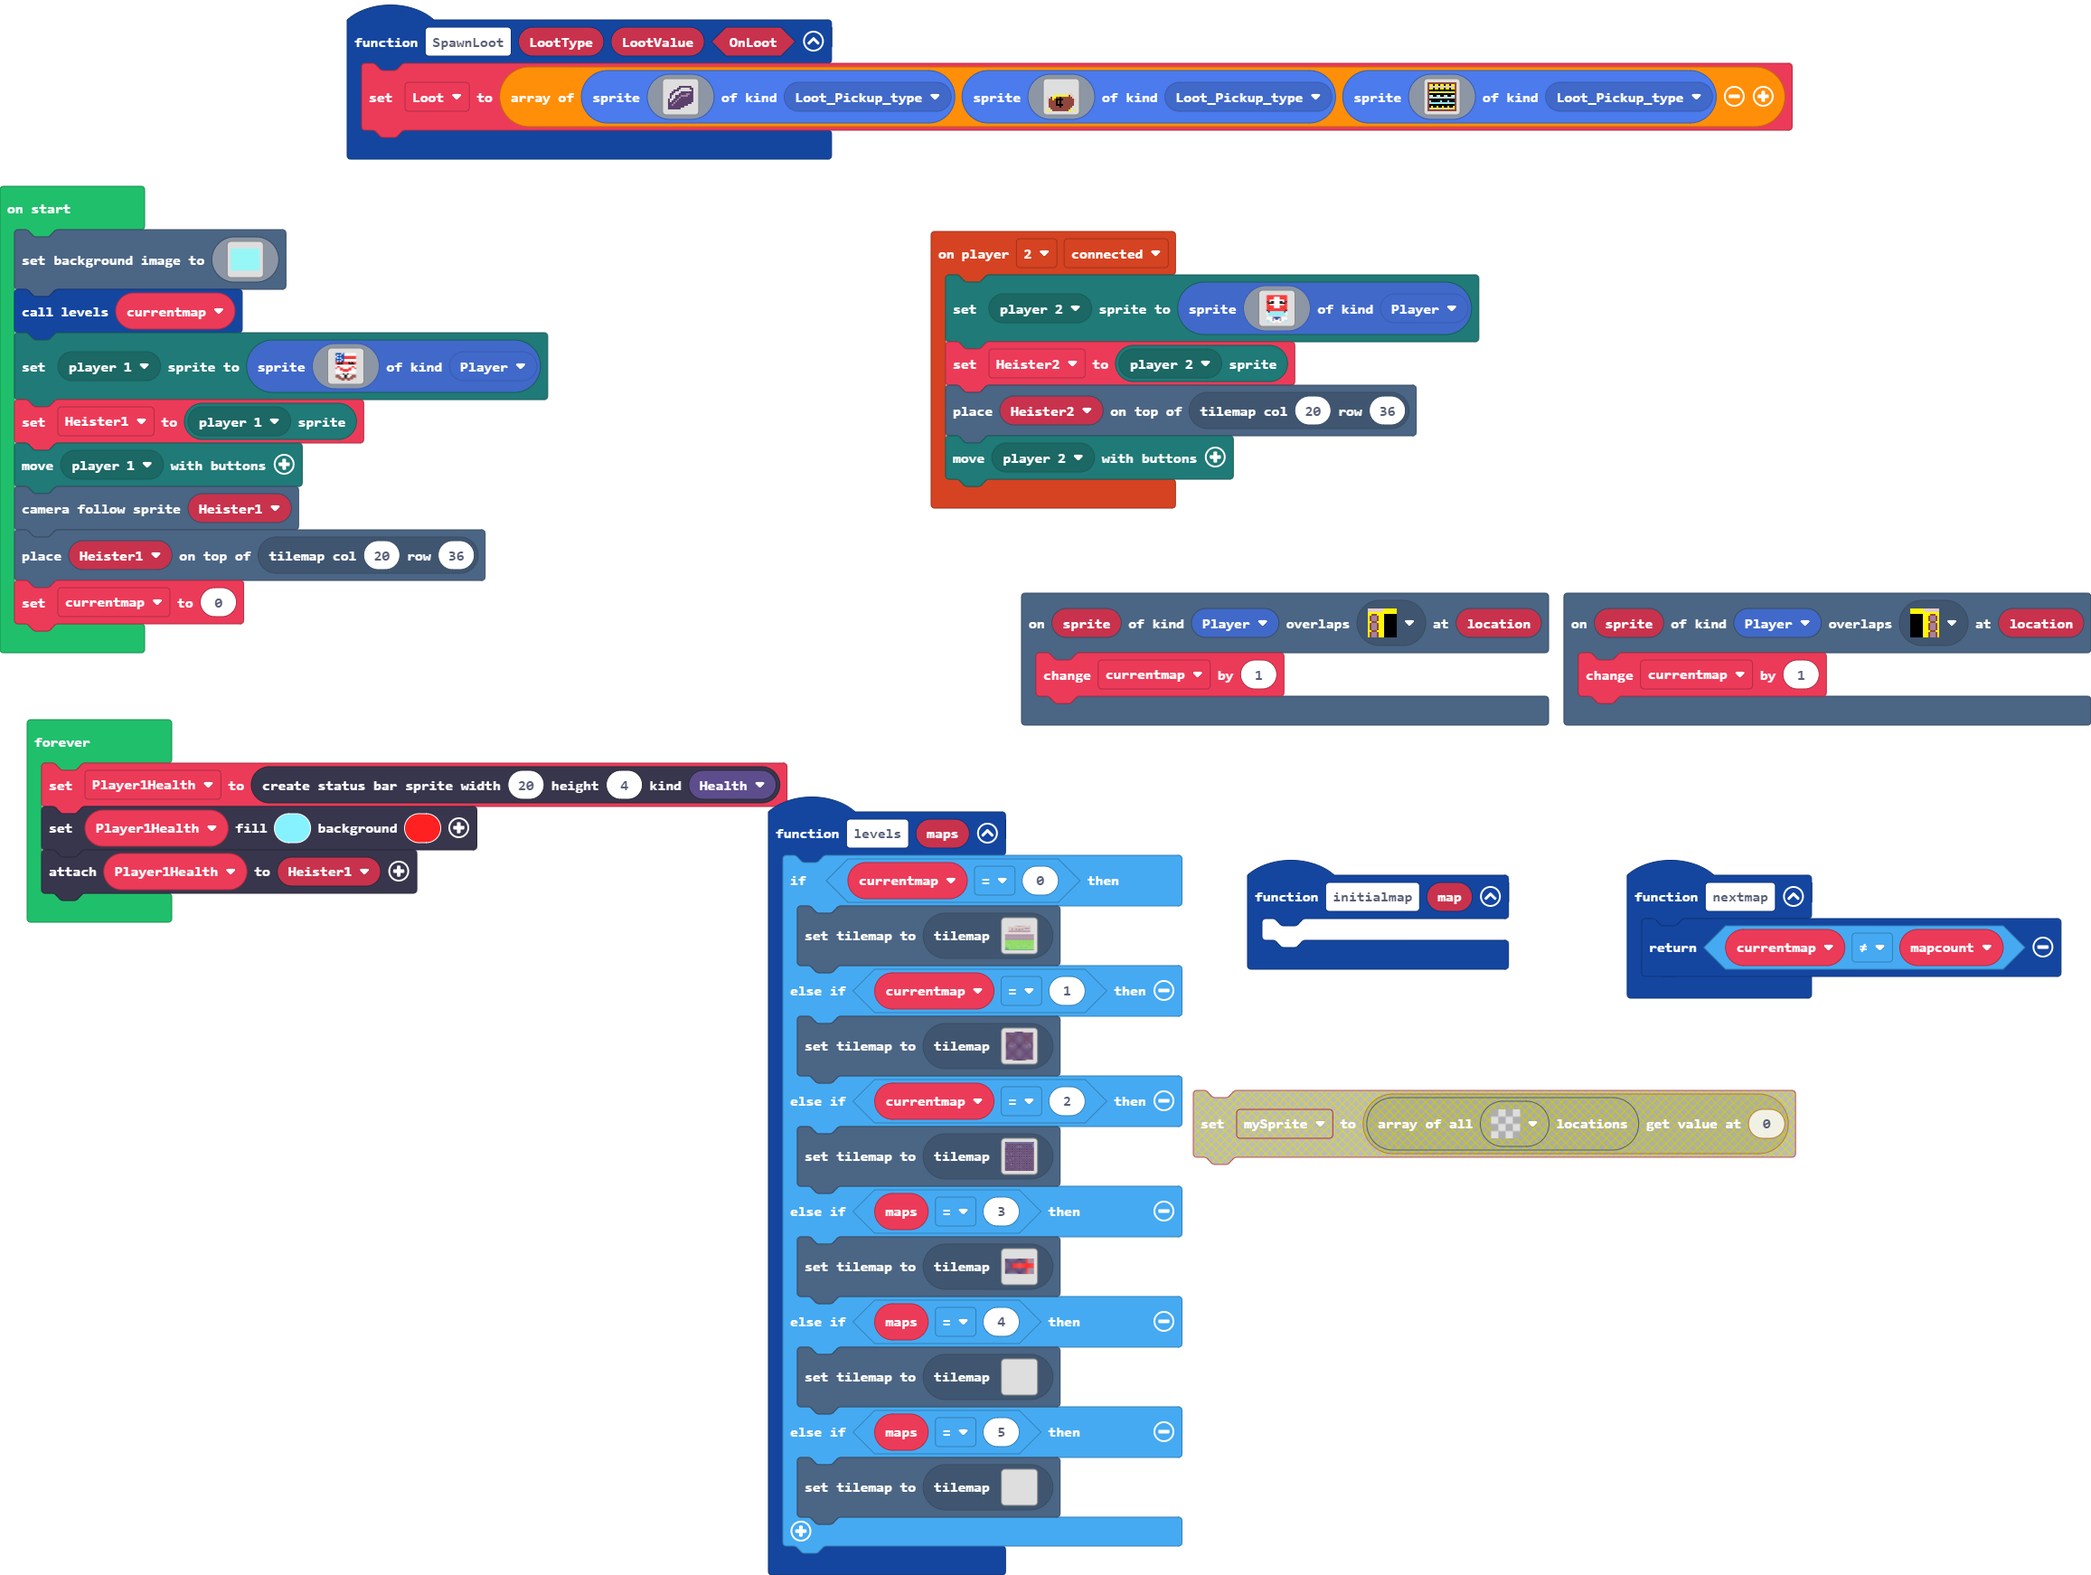
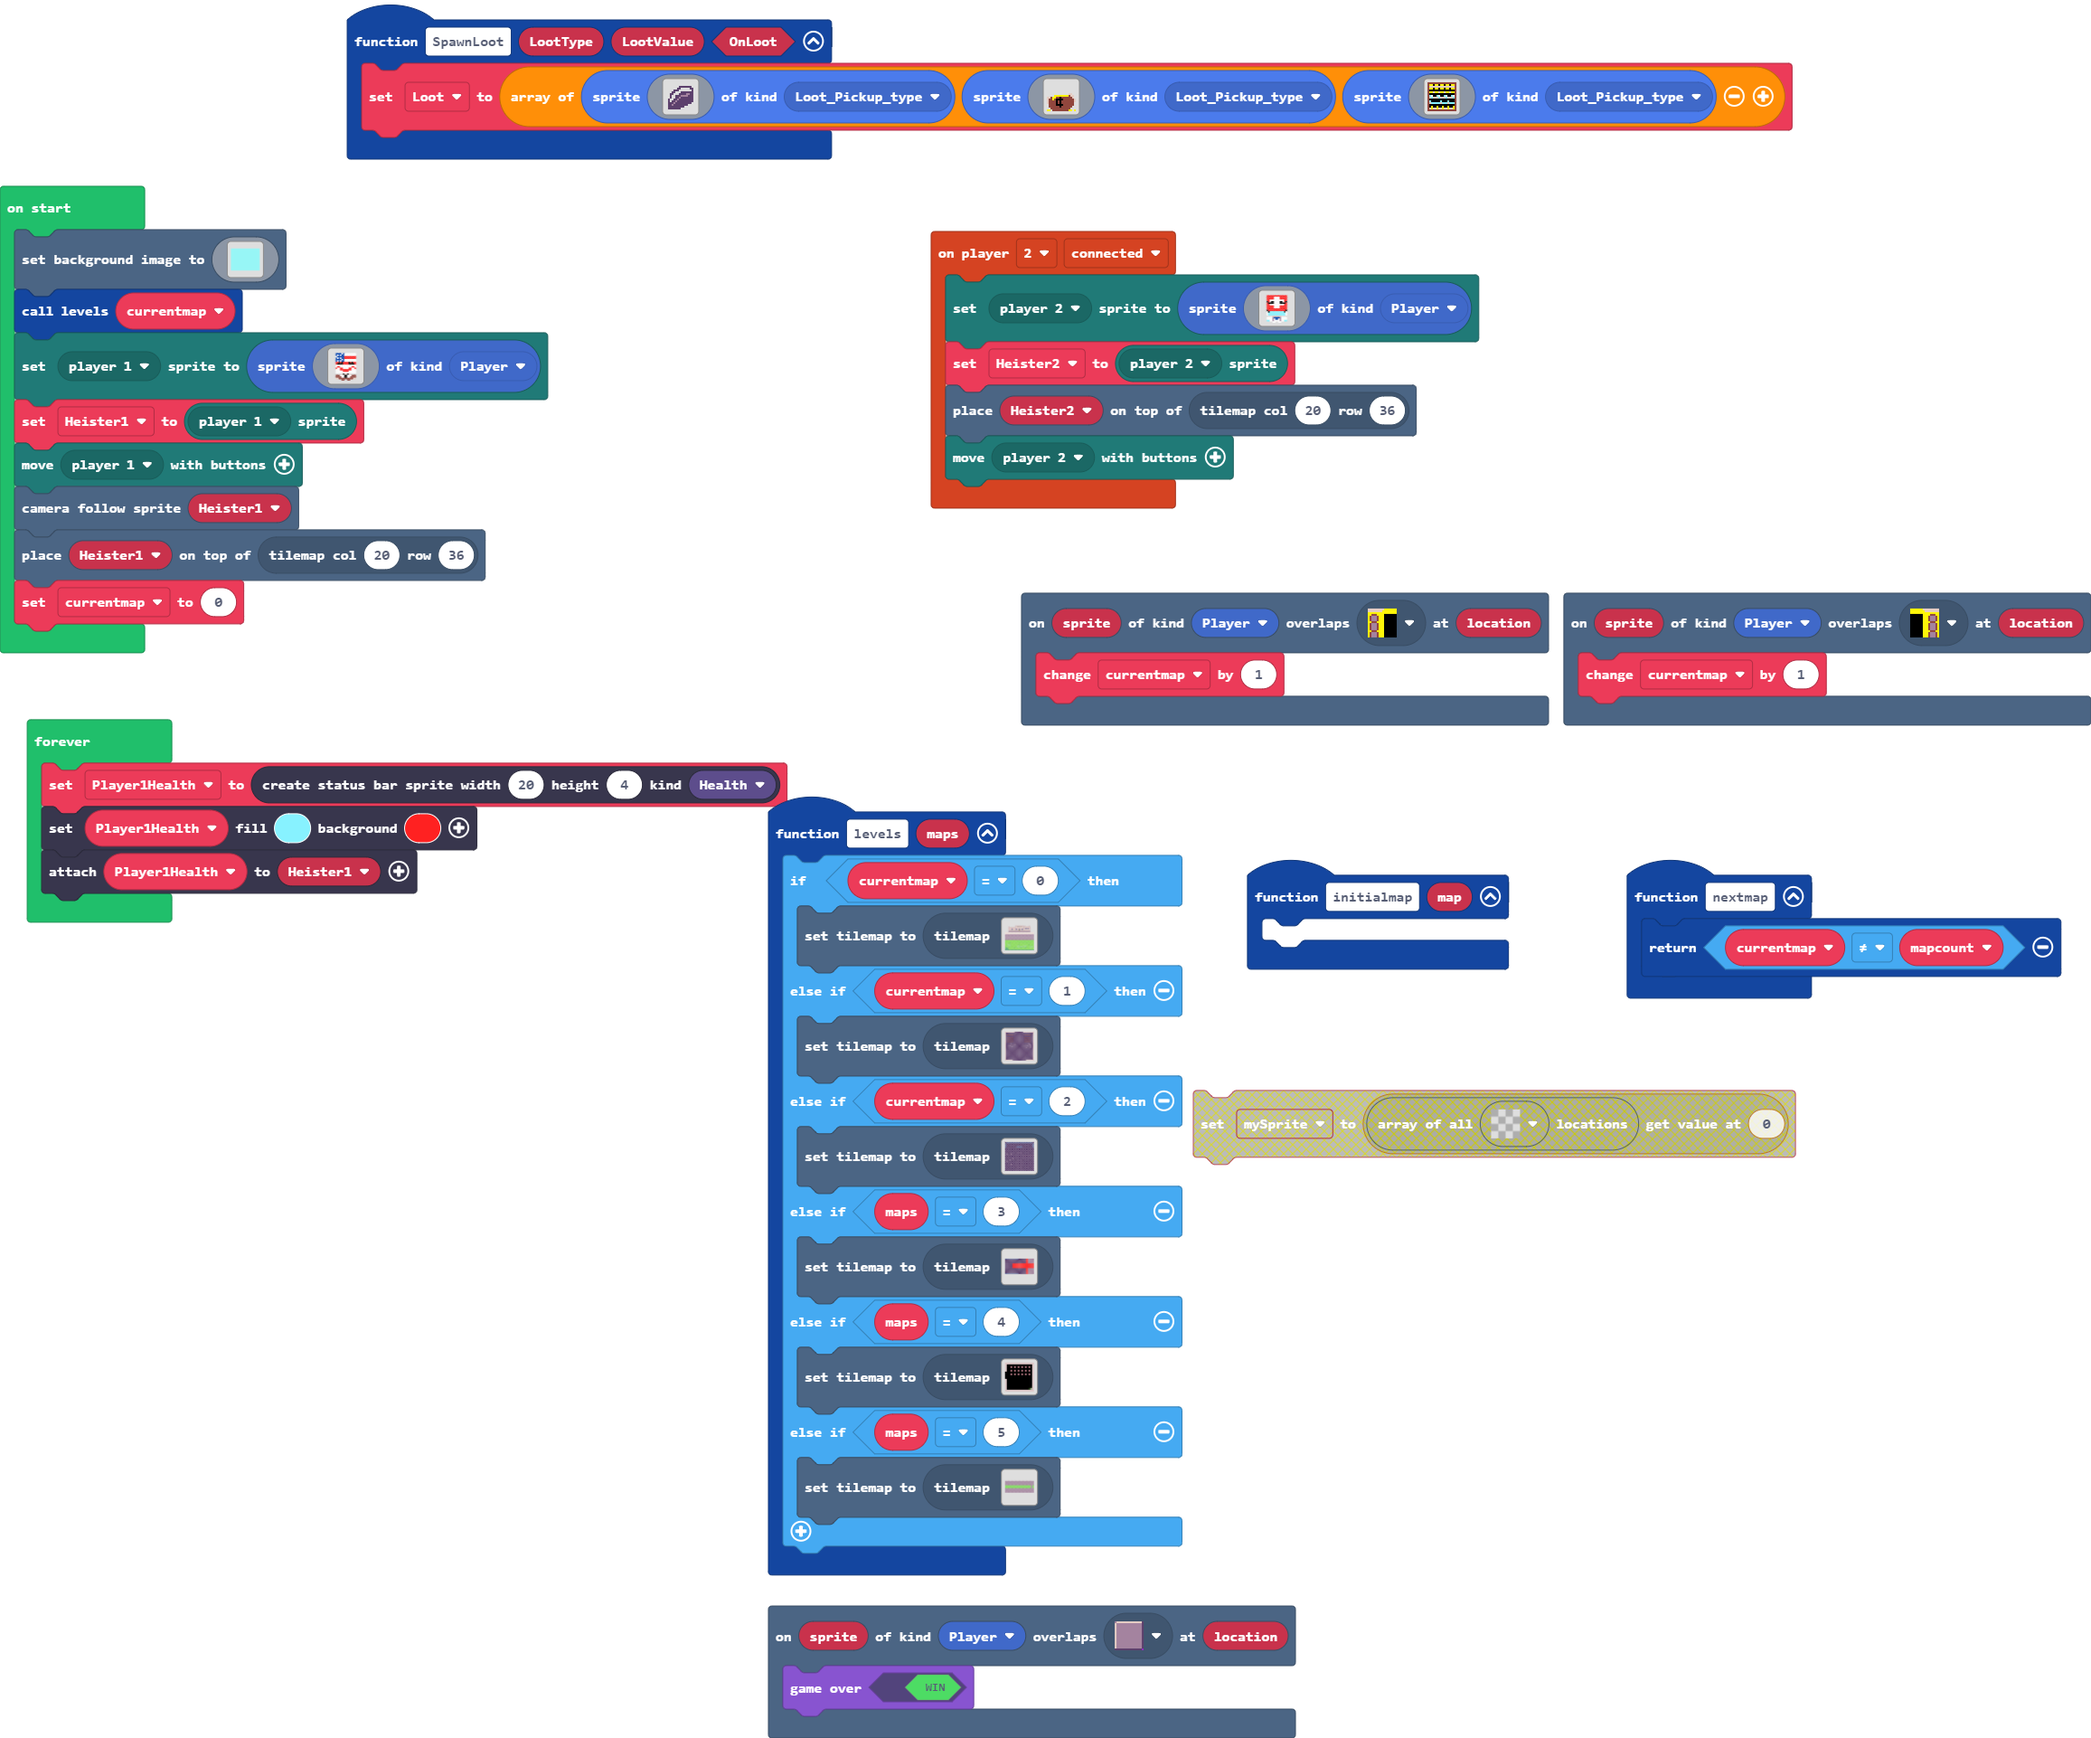
Update main.blocks, main.ts, tilemap.g.jres, tilemap.g.ts

Changed region(s): [[0.0, 0.093, 1.0, 1.0], [0.1556, 0.0, 0.8716, 0.124]]

diff --git a/tilemap.g.ts b/tilemap.g.ts
@@ -88,6 +88,16 @@ namespace myTiles {
     export const tile42 = image.ofBuffer(hex``);
     //% fixedInstance jres blockIdentity=images._tile
     export const tile43 = image.ofBuffer(hex``);
+    //% fixedInstance jres blockIdentity=images._tile
+    export const tile44 = image.ofBuffer(hex``);
+    //% fixedInstance jres blockIdentity=images._tile
+    export const tile45 = image.ofBuffer(hex``);
+    //% fixedInstance jres blockIdentity=images._tile
+    export const tile46 = image.ofBuffer(hex``);
+    //% fixedInstance jres blockIdentity=images._tile
+    export const tile47 = image.ofBuffer(hex``);
+    //% fixedInstance jres blockIdentity=images._tile
+    export const tile48 = image.ofBuffer(hex``);
 
     helpers._registerFactory("tilemap", function(name: string) {
         switch(helpers.stringTrim(name)) {
@@ -836,44 +846,6 @@ namespace myTiles {
 2............................2
 22222222..............22222222
 `, [myTiles.transparency16,sprites.dungeon.darkGroundCenter,sprites.dungeon.darkGroundNorthWest0,sprites.dungeon.darkGroundSouth,sprites.dungeon.darkGroundSouthWest0,sprites.dungeon.darkGroundWest,sprites.dungeon.darkGroundEast,sprites.dungeon.darkGroundSouthEast0,sprites.dungeon.darkGroundNorthEast0,sprites.dungeon.darkGroundNorth,sprites.dungeon.floorLight0,myTiles.tile33,myTiles.tile34,myTiles.tile35,sprites.dungeon.floorDark3,myTiles.tile36,myTiles.tile37,sprites.dungeon.darkGroundSouthEast1,sprites.dungeon.darkGroundSouthWest1,myTiles.tile38,myTiles.tile41], TileScale.Sixteen);
-            case "level38":
-            case "level38":return tiles.createTilemap(hex`1000100000000000000000000000000000000000000000000000000000000000000000000000000000000000000000000000000000000000000000000000000000000000000000000000000000000000000000000000000000000000000000000000000000000000000000000000000000000000000000000000000000000000000000000000000000000000000000000000000000000000000000000000000000000000000000000000000000000000000000000000000000000000000000000000000000000000000000000000000000000000000000000000000000000000000000000000000000000000000000000000000000000000000000000000000000000000`, img`
-. . . . . . . . . . . . . . . . 
-. . . . . . . . . . . . . . . . 
-. . . . . . . . . . . . . . . . 
-. . . . . . . . . . . . . . . . 
-. . . . . . . . . . . . . . . . 
-. . . . . . . . . . . . . . . . 
-. . . . . . . . . . . . . . . . 
-. . . . . . . . . . . . . . . . 
-. . . . . . . . . . . . . . . . 
-. . . . . . . . . . . . . . . . 
-. . . . . . . . . . . . . . . . 
-. . . . . . . . . . . . . . . . 
-. . . . . . . . . . . . . . . . 
-. . . . . . . . . . . . . . . . 
-. . . . . . . . . . . . . . . . 
-. . . . . . . . . . . . . . . . 
-`, [myTiles.transparency16], TileScale.Sixteen);
-            case "level39":
-            case "level39":return tiles.createTilemap(hex`1000100000000000000000000000000000000000000000000000000000000000000000000000000000000000000000000000000000000000000000000000000000000000000000000000000000000000000000000000000000000000000000000000000000000000000000000000000000000000000000000000000000000000000000000000000000000000000000000000000000000000000000000000000000000000000000000000000000000000000000000000000000000000000000000000000000000000000000000000000000000000000000000000000000000000000000000000000000000000000000000000000000000000000000000000000000000000`, img`
-. . . . . . . . . . . . . . . . 
-. . . . . . . . . . . . . . . . 
-. . . . . . . . . . . . . . . . 
-. . . . . . . . . . . . . . . . 
-. . . . . . . . . . . . . . . . 
-. . . . . . . . . . . . . . . . 
-. . . . . . . . . . . . . . . . 
-. . . . . . . . . . . . . . . . 
-. . . . . . . . . . . . . . . . 
-. . . . . . . . . . . . . . . . 
-. . . . . . . . . . . . . . . . 
-. . . . . . . . . . . . . . . . 
-. . . . . . . . . . . . . . . . 
-. . . . . . . . . . . . . . . . 
-. . . . . . . . . . . . . . . . 
-. . . . . . . . . . . . . . . . 
-`, [myTiles.transparency16], TileScale.Sixteen);
             case "vault_entrance":
[1 lines of base64/hex data omitted]
 22222222222222..........222222
@@ -893,6 +865,44 @@ namespace myTiles {
 ........................222222
 22222222222222..........222222
 `, [myTiles.transparency16,myTiles.tile35,myTiles.tile42,sprites.dungeon.darkGroundSouth,sprites.dungeon.darkGroundNorth,sprites.dungeon.darkGroundCenter,myTiles.tile43,sprites.dungeon.floorDark0], TileScale.Sixteen);
+            case "vault_interior":
+            case "level38":return tiles.createTilemap(hex`1000100001010101010101010101010101010101010303030303030303030303030303010103030203020302030203020302030101030303030303030303030303030301010303020302030203020302030203010303030303030303030303030303030103030302030203020302030203020301030303030303030303030303030303010303030303030303030303030303030101030303030303030303030303030301010303030303030303030303030303010103030303030303030303030303030101030303030303030303030303030301010303030303030303030303030305010103030303030303030303030306040101010101010101010101010101010101`, img`
+2 2 2 2 2 2 2 2 2 2 2 2 2 2 2 2 
+2 . . . . . . . . . . . . . . 2 
+2 . . . . . . . . . . . . . . 2 
+2 . . . . . . . . . . . . . . 2 
+2 . . . . . . . . . . . . . . 2 
+. . . . . . . . . . . . . . . 2 
+. . . . . . . . . . . . . . . 2 
+. . . . . . . . . . . . . . . 2 
+. . . . . . . . . . . . . . . 2 
+2 . . . . . . . . . . . . . . 2 
+2 . . . . . . . . . . . . . . 2 
+2 . . . . . . . . . . . . . . 2 
+2 . . . . . . . . . . . . . . 2 
+2 . . . . . . . . . . . . . . 2 
+2 . . . . . . . . . . . . . . 2 
+2 2 2 2 2 2 2 2 2 2 2 2 2 2 2 2 
+`, [myTiles.transparency16,sprites.dungeon.floorLight0,sprites.dungeon.chestOpen,sprites.builtin.forestTiles10,myTiles.tile44,myTiles.tile45,myTiles.tile46], TileScale.Sixteen);
+            case "level39":
+            case "level39":return tiles.createTilemap(hex`2800100001010101010101010101010101010101010101010101010101010101010101010101010101010101010101010101010101010101010101010101010101010101010101010101010101010101010101010303030303030303030303030303030303030303030303030303030303030303030303030303030403030303030303030303030303030303030303030303030303030303030303030303030303030304030303030303030303030303030303030303030303030303030303030303030303030303030303040303030303030303030303030303030303030303030303030303030303030303030303030303030402020202020202020202020202020202020202020202020202020202020202020202020203030202020202020202020202020202020202020202020202020202020202020202020202020202030302020202020202020202020202020202020202020202020202020202020202020202020202020303020202020202020202020202020202020202020202020202020202020202020202020202020203030202030303030303030303030303030303030303030303030303030303030303030303030303030303040303030303030303030303030303030303030303030303030303030303030303030303030303030403030303030303030303030303030303030303030303030303030303030303030303030303030304030303030303030303030303030303030303030303030303030303030303030303030303030303040101010101010101010101010101010101010101010101010101010101010101010101010101010101010101010101010101010101010101010101010101010101010101010101010101010101010101`, img`
+2222222222222222222222222222222222222222
+2222222222222222222222222222222222222222
+........................................
+........................................
+........................................
+........................................
+222222222222222222222222222222222222..22
+222222222222222222222222222222222222..22
+222222222222222222222222222222222222..22
+222222222222222222222222222222222222..22
+........................................
+........................................
+........................................
+........................................
+2222222222222222222222222222222222222222
+2222222222222222222222222222222222222222
+`, [myTiles.transparency16,sprites.dungeon.floorDark0,myTiles.tile47,sprites.dungeon.floorDark2,myTiles.tile48], TileScale.Sixteen);
         }
         return null;
     })
@@ -983,6 +993,16 @@ namespace myTiles {
             case "tile42":return tile42;
             case "red_carpet":
             case "tile43":return tile43;
+            case "vent":
+            case "tile44":return tile44;
+            case "myTile25":
+            case "tile45":return tile45;
+            case "myTile26":
+            case "tile46":return tile46;
+            case "myTile24":
+            case "tile47":return tile47;
+            case "myTile27":
+            case "tile48":return tile48;
         }
         return null;
     })

diff --git a/main.ts b/main.ts
@@ -23,7 +23,7 @@ function levels (maps: number) {
     } else if (maps == 3) {
         tiles.setCurrentTilemap(tilemap`vault_entrance`)
     } else if (maps == 4) {
-        tiles.setCurrentTilemap(tilemap`level38`)
+        tiles.setCurrentTilemap(tilemap`vault_interior`)
     } else if (maps == 5) {
         tiles.setCurrentTilemap(tilemap`level39`)
     }
@@ -38,6 +38,9 @@ function nextmap () {
     let mapcount = 0
     return currentmap != mapcount
 }
+scene.onOverlapTile(SpriteKind.Player, sprites.dungeon.floorDark2, function (sprite, location) {
+    game.gameOver(true)
+})
 let Player1Health: StatusBarSprite = null
 let Heister2: Sprite = null
 let Loot: Sprite[] = []
